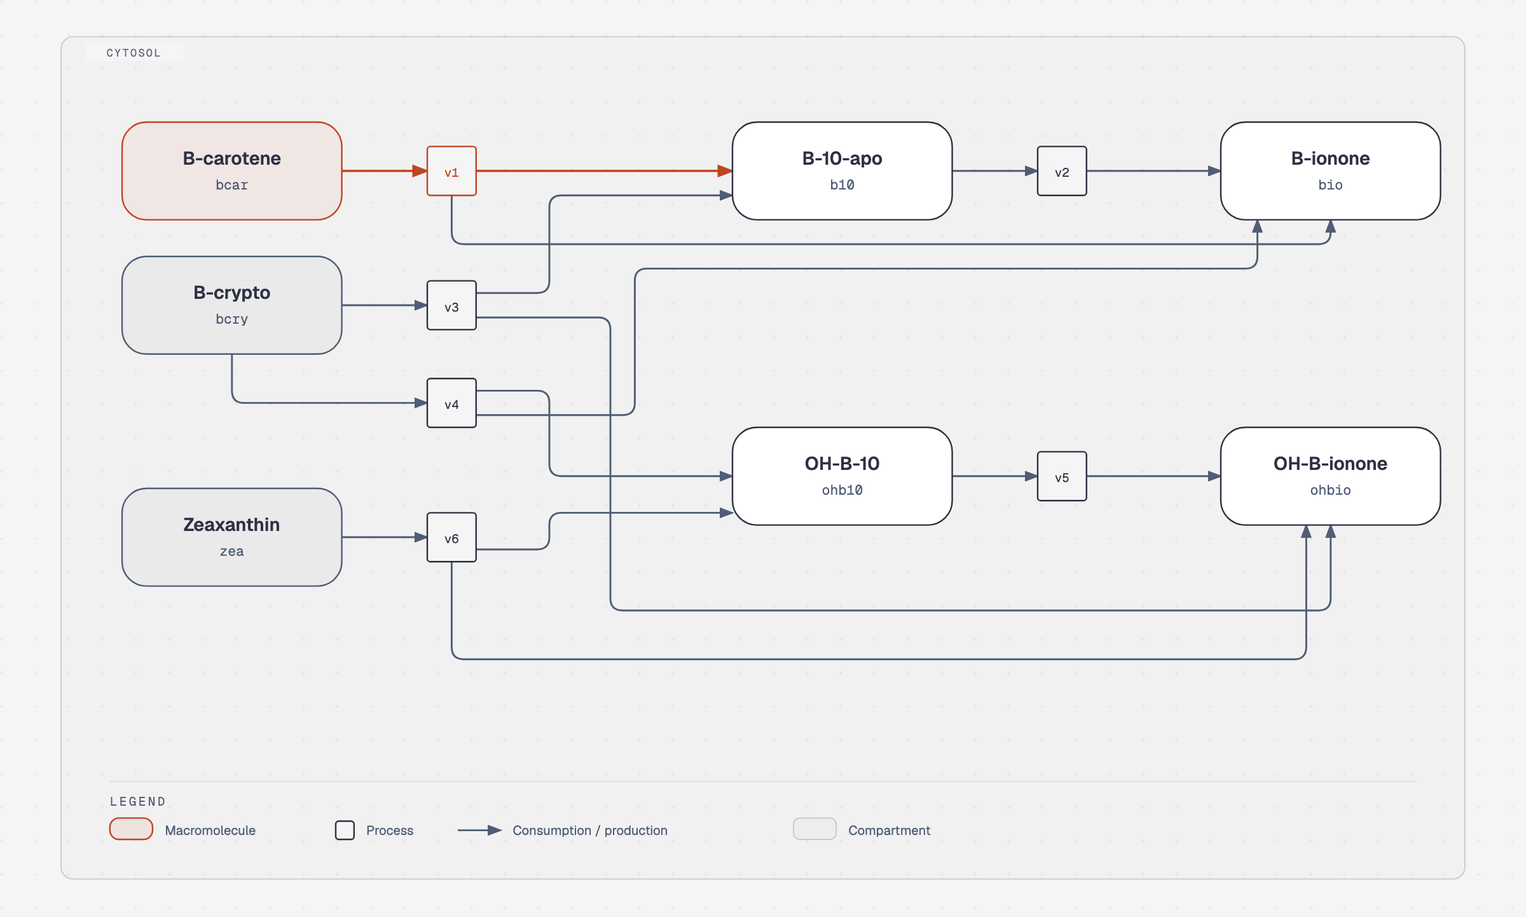
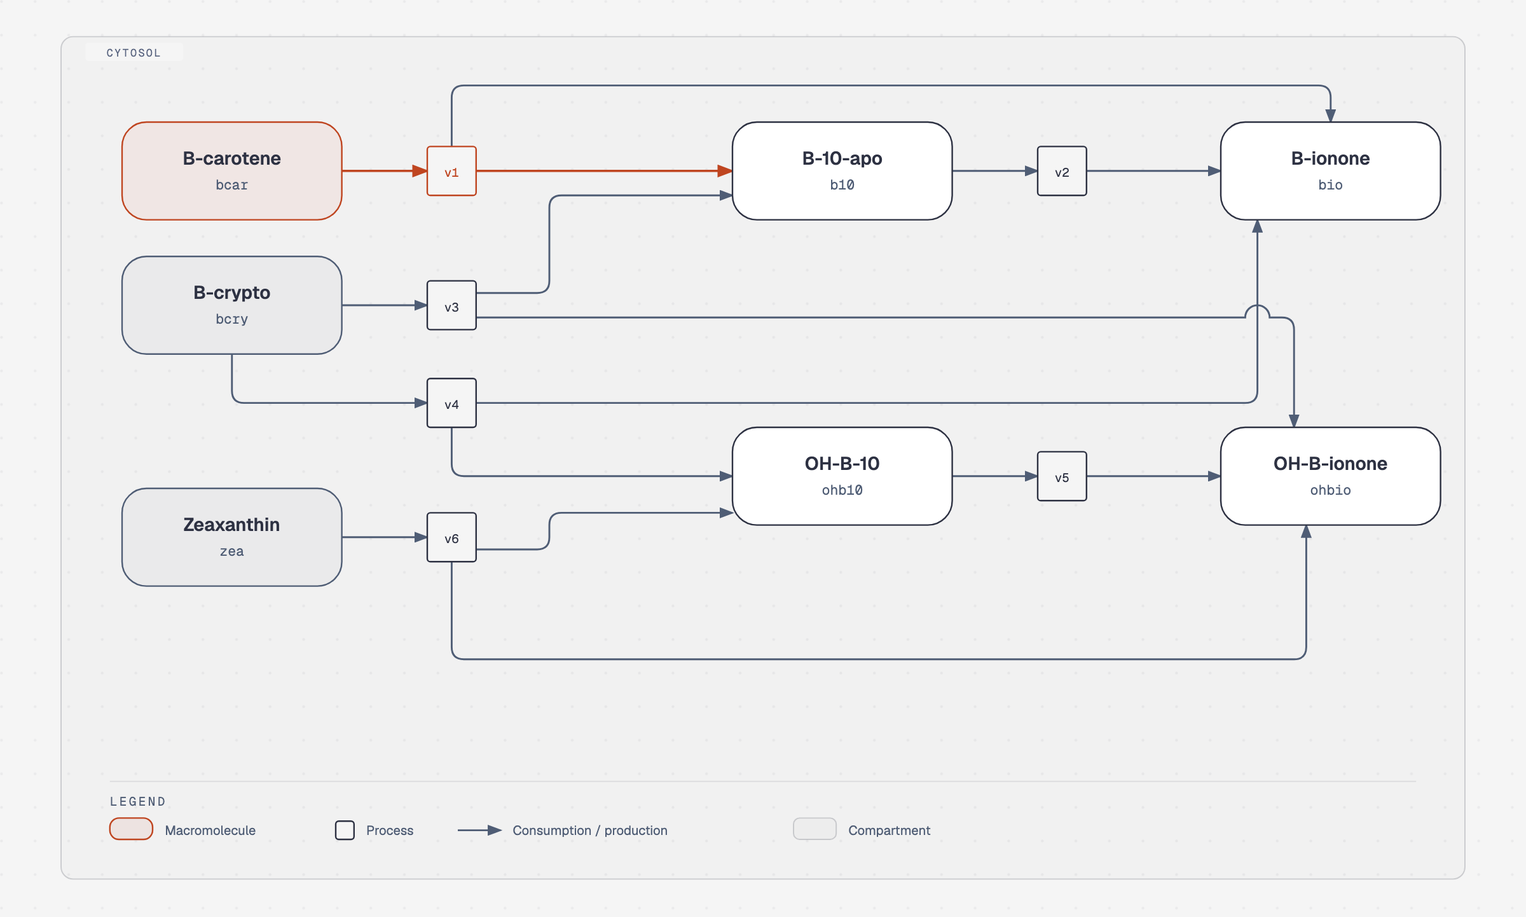
fix(sbgn): reroute crossing arcs and reject unbridged crossings
Seven pairs of same-colour arcs crossed with no gap, so separate
product routes read as junctions, starting with v3 to b10 over v1 to
bio at (360,160). In all three variants:

- v1 to bio runs above the top row and enters B-ionone from the top
- v4 to OH-B-10 leaves v4 from its bottom edge
- v4 to B-ionone runs at y=264 and rises into B-ionone's bottom edge
- v3 to OH-B-ionone runs at y=208 and drops into its top edge

With precursors on the left and products on the right one crossing is
left, v3's route over v4's at (824,208), and it carries the hop from
type-architecture.md.

The checker now fails arcs that cross without a gap, overlap, or end
on another arc; an elliptical arc command leaves the gap. Fixtures cover
a straight and a curved crossing, the bridged form, a T junction, an
overlap and unreadable path data. The canonical screenshot, README
thumb and PR previews are regenerated.

Changed region(s): [[0.3125, 0.4369, 0.4375, 0.4681], [0.8438, 0.2497, 0.875, 0.2809], [0.4062, 0.3433, 0.4375, 0.3745]]

diff --git a/skills/diagram-design/assets/example-sbgn-dark.html b/skills/diagram-design/assets/example-sbgn-dark.html
@@ -89,7 +89,7 @@
         <path data-kind="production" data-from="v1" data-to="b10"
               d="M 312,112 H 480" fill="none" stroke="#f08a59" stroke-width="1.4" marker-end="url(#arrow-accent)"/>
         <path data-kind="production" data-from="v1" data-to="bio"
-              d="M 296,128 V 152 Q 296,160 304,160 H 864 Q 872,160 872,152 V 144"
+              d="M 296,96 V 64 Q 296,56 304,56 H 864 Q 872,56 872,64 V 80"
               fill="none" stroke="#bfc0c0" stroke-width="1.2" marker-end="url(#arrow)"/>
         <path data-kind="consumption" data-from="b10" data-to="v2"
               d="M 624,112 H 680" fill="none" stroke="#bfc0c0" stroke-width="1.2" marker-end="url(#arrow)"/>
@@ -101,16 +101,16 @@
               d="M 312,192 H 352 Q 360,192 360,184 V 136 Q 360,128 368,128 H 480"
               fill="none" stroke="#bfc0c0" stroke-width="1.2" marker-end="url(#arrow)"/>
         <path data-kind="production" data-from="v3" data-to="ohbio"
-              d="M 312,208 H 392 Q 400,208 400,216 V 392 Q 400,400 408,400 H 864 Q 872,400 872,392 V 344"
+              d="M 312,208 H 816 a 8,8 0 0,1 16,0 H 840 Q 848,208 848,216 V 280"
               fill="none" stroke="#bfc0c0" stroke-width="1.2" marker-end="url(#arrow)"/>
         <path data-kind="consumption" data-from="bcry" data-to="v4"
               d="M 152,232 V 256 Q 152,264 160,264 H 280"
               fill="none" stroke="#bfc0c0" stroke-width="1.2" marker-end="url(#arrow)"/>
         <path data-kind="production" data-from="v4" data-to="ohb10"
-              d="M 312,256 H 352 Q 360,256 360,264 V 304 Q 360,312 368,312 H 480"
+              d="M 296,280 V 304 Q 296,312 304,312 H 480"
               fill="none" stroke="#bfc0c0" stroke-width="1.2" marker-end="url(#arrow)"/>
         <path data-kind="production" data-from="v4" data-to="bio"
-              d="M 312,272 H 408 Q 416,272 416,264 V 184 Q 416,176 424,176 H 816 Q 824,176 824,168 V 144"
+              d="M 312,264 H 816 Q 824,264 824,256 V 144"
               fill="none" stroke="#bfc0c0" stroke-width="1.2" marker-end="url(#arrow)"/>
         <path data-kind="consumption" data-from="zea" data-to="v6"
               d="M 224,352 H 280" fill="none" stroke="#bfc0c0" stroke-width="1.2" marker-end="url(#arrow)"/>

diff --git a/skills/diagram-design/assets/example-sbgn.html b/skills/diagram-design/assets/example-sbgn.html
@@ -89,7 +89,7 @@
         <path data-kind="production" data-from="v1" data-to="b10"
               d="M 312,112 H 480" fill="none" stroke="#bf4520" stroke-width="1.4" marker-end="url(#arrow-accent)"/>
         <path data-kind="production" data-from="v1" data-to="bio"
-              d="M 296,128 V 152 Q 296,160 304,160 H 864 Q 872,160 872,152 V 144"
+              d="M 296,96 V 64 Q 296,56 304,56 H 864 Q 872,56 872,64 V 80"
               fill="none" stroke="#4f5d75" stroke-width="1.2" marker-end="url(#arrow)"/>
         <path data-kind="consumption" data-from="b10" data-to="v2"
               d="M 624,112 H 680" fill="none" stroke="#4f5d75" stroke-width="1.2" marker-end="url(#arrow)"/>
@@ -101,16 +101,16 @@
               d="M 312,192 H 352 Q 360,192 360,184 V 136 Q 360,128 368,128 H 480"
               fill="none" stroke="#4f5d75" stroke-width="1.2" marker-end="url(#arrow)"/>
         <path data-kind="production" data-from="v3" data-to="ohbio"
-              d="M 312,208 H 392 Q 400,208 400,216 V 392 Q 400,400 408,400 H 864 Q 872,400 872,392 V 344"
+              d="M 312,208 H 816 a 8,8 0 0,1 16,0 H 840 Q 848,208 848,216 V 280"
               fill="none" stroke="#4f5d75" stroke-width="1.2" marker-end="url(#arrow)"/>
         <path data-kind="consumption" data-from="bcry" data-to="v4"
               d="M 152,232 V 256 Q 152,264 160,264 H 280"
               fill="none" stroke="#4f5d75" stroke-width="1.2" marker-end="url(#arrow)"/>
         <path data-kind="production" data-from="v4" data-to="ohb10"
-              d="M 312,256 H 352 Q 360,256 360,264 V 304 Q 360,312 368,312 H 480"
+              d="M 296,280 V 304 Q 296,312 304,312 H 480"
               fill="none" stroke="#4f5d75" stroke-width="1.2" marker-end="url(#arrow)"/>
         <path data-kind="production" data-from="v4" data-to="bio"
-              d="M 312,272 H 408 Q 416,272 416,264 V 184 Q 416,176 424,176 H 816 Q 824,176 824,168 V 144"
+              d="M 312,264 H 816 Q 824,264 824,256 V 144"
               fill="none" stroke="#4f5d75" stroke-width="1.2" marker-end="url(#arrow)"/>
         <path data-kind="consumption" data-from="zea" data-to="v6"
               d="M 224,352 H 280" fill="none" stroke="#4f5d75" stroke-width="1.2" marker-end="url(#arrow)"/>

diff --git a/skills/diagram-design/assets/example-sbgn-full.html b/skills/diagram-design/assets/example-sbgn-full.html
@@ -83,7 +83,7 @@
         <path data-kind="production" data-from="v1" data-to="b10"
               d="M 312,112 H 480" fill="none" stroke="#bf4520" stroke-width="1.4" marker-end="url(#arrow-accent)"/>
         <path data-kind="production" data-from="v1" data-to="bio"
-              d="M 296,128 V 152 Q 296,160 304,160 H 864 Q 872,160 872,152 V 144"
+              d="M 296,96 V 64 Q 296,56 304,56 H 864 Q 872,56 872,64 V 80"
               fill="none" stroke="#4f5d75" stroke-width="1.2" marker-end="url(#arrow)"/>
         <path data-kind="consumption" data-from="b10" data-to="v2"
               d="M 624,112 H 680" fill="none" stroke="#4f5d75" stroke-width="1.2" marker-end="url(#arrow)"/>
@@ -95,16 +95,16 @@
               d="M 312,192 H 352 Q 360,192 360,184 V 136 Q 360,128 368,128 H 480"
               fill="none" stroke="#4f5d75" stroke-width="1.2" marker-end="url(#arrow)"/>
         <path data-kind="production" data-from="v3" data-to="ohbio"
-              d="M 312,208 H 392 Q 400,208 400,216 V 392 Q 400,400 408,400 H 864 Q 872,400 872,392 V 344"
+              d="M 312,208 H 816 a 8,8 0 0,1 16,0 H 840 Q 848,208 848,216 V 280"
               fill="none" stroke="#4f5d75" stroke-width="1.2" marker-end="url(#arrow)"/>
         <path data-kind="consumption" data-from="bcry" data-to="v4"
               d="M 152,232 V 256 Q 152,264 160,264 H 280"
               fill="none" stroke="#4f5d75" stroke-width="1.2" marker-end="url(#arrow)"/>
         <path data-kind="production" data-from="v4" data-to="ohb10"
-              d="M 312,256 H 352 Q 360,256 360,264 V 304 Q 360,312 368,312 H 480"
+              d="M 296,280 V 304 Q 296,312 304,312 H 480"
               fill="none" stroke="#4f5d75" stroke-width="1.2" marker-end="url(#arrow)"/>
         <path data-kind="production" data-from="v4" data-to="bio"
-              d="M 312,272 H 408 Q 416,272 416,264 V 184 Q 416,176 424,176 H 816 Q 824,176 824,168 V 144"
+              d="M 312,264 H 816 Q 824,264 824,256 V 144"
               fill="none" stroke="#4f5d75" stroke-width="1.2" marker-end="url(#arrow)"/>
         <path data-kind="consumption" data-from="zea" data-to="v6"
               d="M 224,352 H 280" fill="none" stroke="#4f5d75" stroke-width="1.2" marker-end="url(#arrow)"/>

diff --git a/scripts/verify-sbgn.py b/scripts/verify-sbgn.py
@@ -5,7 +5,8 @@ Checks unique IDs, arc kinds, bipartite species/process arcs, compartment
 containment, glyph kinds, and the Bruno ceiling. Containment reads x, y, width
 and height, so a transform or positional CSS on a glyph, its bounds or an
 ancestor group inside the map is a finding. Every connector drawn in the map
-must be a declared arc, except legend samples inside <g data-role="legend">. Files without data-diagram="sbgn" are
+must be a declared arc, except legend samples inside <g data-role="legend">.
+Arcs may not cross without the documented hop, overlap, or end on another arc. Files without data-diagram="sbgn" are
 skipped. This verifies authored declarations, not whether they describe an
 external SBML model.
 
@@ -524,6 +525,141 @@ def overlaps(extent: tuple[float, float, float, float], box: Box) -> bool:
     return x0 <= box.right + EPS and x1 + EPS >= box.x and y0 <= box.bottom + EPS and y1 + EPS >= box.y
 
 
+PATH_TOKEN_RE = re.compile(r"[A-Za-z]|" + NUMBER)
+PATH_ARITY = {"M": 2, "L": 2, "H": 1, "V": 1, "Q": 4, "T": 2, "C": 6, "S": 4, "A": 7, "Z": 0}
+
+Point = tuple[float, float]
+
+
+def arc_polyline(node: Node) -> tuple[list[tuple[Point, Point]], Point, Point]:
+    """Stroked segments of an arc, plus its first and last points.
+
+    Curves are approximated by the polyline through their control points,
+    which is exact at the elbow corners the reference draws. An elliptical
+    arc command (the crossing hop) leaves a gap: nothing is stroked under it
+    at the crossing point.
+    """
+    if node.tag == "line":
+        a = (number(node.attrs.get("x1", "0")), number(node.attrs.get("y1", "0")))
+        b = (number(node.attrs.get("x2", "0")), number(node.attrs.get("y2", "0")))
+        return [(a, b)], a, b
+    if node.tag in {"polyline", "polygon"}:
+        values = [number(raw) for raw in re.split(r"[\s,]+", node.attrs.get("points", "").strip()) if raw]
+        if len(values) < 4 or len(values) % 2:
+            raise ValueError("points must list at least two x,y pairs")
+        points = list(zip(values[::2], values[1::2]))
+        if node.tag == "polygon":
+            points.append(points[0])
+        return list(zip(points, points[1:])), points[0], points[-1]
+    if node.tag != "path":
+        raise ValueError(f"<{node.tag}> cannot carry an arc")
+    tokens = PATH_TOKEN_RE.findall(node.attrs.get("d", ""))
+    if "".join(tokens).replace(" ", "") != re.sub(r"[\s,]+", "", node.attrs.get("d", "")):
+        raise ValueError("unsupported characters")
+    segments: list[tuple[Point, Point]] = []
+    current: Point | None = None
+    start: Point | None = None
+    first: Point | None = None
+    command = ""
+    index = 0
+    while index < len(tokens):
+        if tokens[index].isalpha():
+            command = tokens[index]
+            index += 1
+            if command.upper() not in PATH_ARITY:
+                raise ValueError(f"unsupported command {command}")
+            if command.upper() == "Z":
+                if current is None or start is None:
+                    raise ValueError("Z before M")
+                segments.append((current, start))
+                current = start
+                continue
+        if not command or command.upper() == "Z":
+            raise ValueError("coordinates without a command")
+        arity = PATH_ARITY[command.upper()]
+        args = tokens[index:index + arity]
+        if len(args) != arity or any(token.isalpha() for token in args):
+            raise ValueError(f"command {command} needs {arity} numbers")
+        values = [number(token) for token in args]
+        index += arity
+        relative = command.islower()
+        if current is None and command.upper() != "M":
+            raise ValueError("path must start with M")
+        base = current if (relative and current is not None) else (0.0, 0.0)
+        upper = command.upper()
+        if upper == "H":
+            target = (values[0] + (current[0] if relative else 0.0), current[1])
+            points = [target]
+        elif upper == "V":
+            target = (current[0], values[0] + (current[1] if relative else 0.0))
+            points = [target]
+        elif upper == "A":
+            target = (values[5] + base[0], values[6] + base[1])
+            points = []
+        else:
+            points = [(values[i] + base[0], values[i + 1] + base[1]) for i in range(0, arity, 2)]
+            target = points[-1]
+        if upper == "M":
+            current = start = target
+            if first is None:
+                first = target
+            command = "l" if relative else "L"
+            continue
+        previous = current
+        for point in points:
+            segments.append((previous, point))
+            previous = point
+        current = target
+    if first is None or current is None:
+        raise ValueError("empty path")
+    return segments, first, current
+
+
+def _orientation(a: Point, b: Point, c: Point) -> float:
+    value = (b[0] - a[0]) * (c[1] - a[1]) - (b[1] - a[1]) * (c[0] - a[0])
+    return 0.0 if abs(value) <= EPS else value
+
+
+def _within(a: Point, b: Point, c: Point) -> bool:
+    """c lies on segment ab, collinearity assumed."""
+    return (min(a[0], b[0]) - EPS <= c[0] <= max(a[0], b[0]) + EPS
+            and min(a[1], b[1]) - EPS <= c[1] <= max(a[1], b[1]) + EPS)
+
+
+def _same(a: Point, b: Point) -> bool:
+    return abs(a[0] - b[0]) <= EPS and abs(a[1] - b[1]) <= EPS
+
+
+def crossing_point(s: tuple[Point, Point], t: tuple[Point, Point]) -> Point | None:
+    """Point where two segments properly cross (interiors only), else None."""
+    (a, b), (c, d) = s, t
+    o1, o2 = _orientation(a, b, c), _orientation(a, b, d)
+    o3, o4 = _orientation(c, d, a), _orientation(c, d, b)
+    if o1 * o2 < 0 and o3 * o4 < 0:
+        denominator = (a[0] - b[0]) * (c[1] - d[1]) - (a[1] - b[1]) * (c[0] - d[0])
+        cross_ab = a[0] * b[1] - a[1] * b[0]
+        cross_cd = c[0] * d[1] - c[1] * d[0]
+        return ((cross_ab * (c[0] - d[0]) - (a[0] - b[0]) * cross_cd) / denominator,
+                (cross_ab * (c[1] - d[1]) - (a[1] - b[1]) * cross_cd) / denominator)
+    return None
+
+
+def overlap_length(s: tuple[Point, Point], t: tuple[Point, Point]) -> float:
+    (a, b), (c, d) = s, t
+    if _orientation(a, b, c) or _orientation(a, b, d):
+        return 0.0
+    axis = 0 if abs(b[0] - a[0]) >= abs(b[1] - a[1]) else 1
+    low = max(min(a[axis], b[axis]), min(c[axis], d[axis]))
+    high = min(max(a[axis], b[axis]), max(c[axis], d[axis]))
+    return max(0.0, high - low)
+
+
+def strictly_inside(point: Point, segment: tuple[Point, Point]) -> bool:
+    a, b = segment
+    return (not _orientation(a, b, point) and _within(a, b, point)
+            and not _same(point, a) and not _same(point, b))
+
+
 def looks_like_sbgn(source: str) -> bool:
     scanner = Scanner()
     scanner.finish(source)
@@ -747,6 +883,42 @@ def check_source(path: Path, source: str) -> list[str]:
             pair = {source, target}
             if not (pair & species and pair & process_ids):
                 fail(node, "reversible must join a species and a process")
+
+    # Arcs must not cross, stack, or end on one another: a crossing with no
+    # gap reads as a junction. The hop in type-architecture.md leaves a gap.
+    drawn = []
+    for node in scanner.nodes:
+        if root not in node.ancestors() or node.attrs.get("data-kind") not in ARC_KINDS:
+            continue
+        name = f'{node.attrs.get("data-from", "?")} to {node.attrs.get("data-to", "?")}'
+        try:
+            segments, head, tail = arc_polyline(node)
+        except ValueError as error:
+            fail(node, f"arc {name}: path data could not be read ({error})")
+            continue
+        drawn.append((node, name, segments, (head, tail)))
+    for index, (node, name, segments, ends) in enumerate(drawn):
+        for other, other_name, other_segments, other_ends in drawn[index + 1:]:
+            reported = set()
+            for s in segments:
+                for t in other_segments:
+                    point = crossing_point(s, t)
+                    if point is not None and ("cross", point) not in reported:
+                        reported.add(("cross", point))
+                        fail(other, f"arcs {name} and {other_name} cross at ({point[0]:g}, {point[1]:g}) "
+                                    "without a gap; reroute one or bridge it with the hop from "
+                                    "type-architecture.md")
+                    elif overlap_length(s, t) > EPS and "overlap" not in reported:
+                        reported.add("overlap")
+                        fail(other, f"arcs {name} and {other_name} overlap; offset one by 12px or more")
+            for end in ends:
+                if any(strictly_inside(end, t) for t in other_segments):
+                    fail(node, f"arc {name} ends on arc {other_name} at ({end[0]:g}, {end[1]:g}); "
+                               "it reads as a junction")
+            for end in other_ends:
+                if any(strictly_inside(end, s) for s in segments):
+                    fail(other, f"arc {other_name} ends on arc {name} at ({end[0]:g}, {end[1]:g}); "
+                                "it reads as a junction")
 
     return findings
 

diff --git a/scripts/test-verify-sbgn.py b/scripts/test-verify-sbgn.py
@@ -238,6 +238,34 @@ class ContractTests(unittest.TestCase):
         moved = legend.replace('<g data-role="legend">', '<g data-role="legend" transform="translate(0,-120)">')
         self.rejects(GOOD.replace("</svg>", moved), "transform attribute")
 
+    def test_crossing_arcs_are_rejected(self):
+        # Two same-colour strokes crossing with no gap read as a junction.
+        crossing = ('<path data-kind="modulation" data-from="a" data-to="p" d="M 120,100 H 172"/>'
+                    '<path data-kind="modulation" data-from="b" data-to="p" d="M 140,90 V 112"/></svg>')
+        self.rejects(GOOD.replace("</svg>", crossing), "cross at (140, 100)")
+        curved = crossing.replace('d="M 140,90 V 112"', 'd="M 248,80 H 148 Q 140,80 140,88 V 112"')
+        self.rejects(GOOD.replace("</svg>", curved), "cross at (140, 100)")
+
+    def test_bridged_crossing_is_clean(self):
+        # The hop from type-architecture.md leaves a gap at the crossing.
+        bridged = ('<path data-kind="modulation" data-from="a" data-to="p" '
+                   'd="M 120,100 H 132 a 8,8 0 0,1 16,0 H 172"/>'
+                   '<path data-kind="modulation" data-from="b" data-to="p" d="M 140,90 V 112"/></svg>')
+        self.clean(GOOD.replace("</svg>", bridged))
+
+    def test_arc_ending_on_another_arc_is_rejected(self):
+        touching = ('<path data-kind="modulation" data-from="a" data-to="p" d="M 120,100 H 172"/>'
+                    '<path data-kind="modulation" data-from="b" data-to="p" d="M 140,120 V 100"/></svg>')
+        self.rejects(GOOD.replace("</svg>", touching), "ends on arc")
+
+    def test_overlapping_arcs_are_rejected(self):
+        stacked = ('<path data-kind="modulation" data-from="a" data-to="p" d="M 120,100 H 172"/>'
+                   '<path data-kind="modulation" data-from="b" data-to="p" d="M 150,100 H 190"/></svg>')
+        self.rejects(GOOD.replace("</svg>", stacked), "overlap")
+
+    def test_unreadable_arc_path_is_rejected(self):
+        self.rejects(GOOD.replace('d="M 112,60 H 160"', 'd="M 112,60 X 160"', 1), "path data")
+
     def test_source_sink_is_species(self):
         source = GOOD.replace(
             "</svg>",

diff --git a/CONTRIBUTING.md b/CONTRIBUTING.md
@@ -229,7 +229,7 @@ python3 scripts/test-plugin-package.py \
 - **`verify-architecture-delta.py`:** a stable ID, snapshot membership, status, signature, position, endpoint, or ledger target disagrees with the declared migration. Follow `type-architecture-delta.md`: record every changed object in the center ledger, retain unchanged positions on matching grids, and distinguish CHANGED, MOVED, and REWIRED by what actually differs. Fix the diagram and metadata together; never suppress the ledger entry to hide an unaccounted change.
 - **`verify-exploded.py`:** a part's silhouette is off the projection of the box it declares, a level sits at two heights, the gaps differ or fall under max(0.5 x top-face height, 3 x part thickness), a leader bends, starts off its part, or crosses another part, labels crowd or leave the column, or an animated lift disagrees with the geometry. Change the model in `scripts/build-exploded-examples.py` and rebuild; never nudge a drawn coordinate, and never shrink a gap to fit the canvas.
 - **`verify-axonometric-plan.py`:** a box's silhouette is off the projection of its declared footprint, a box stands outside the plate, floats above it, or shares floor with another, a box is painted after one in front of it, or a tag is off its plan point, stands on a room or roof it does not name, overlaps another tag, runs past two words, or is missing or doubled for a room or building. Change the plan in `scripts/build-axonometric-plan-examples.py` and rebuild; move a tag to open floor rather than shrinking it.
-- **`verify-sbgn.py`:** a species-to-species or process-to-process arc, an arc with a missing or unknown `data-kind`, a drawn connector with no arc declaration outside the `data-role="legend"` group, a glyph moved by a `transform` attribute, positional inline style, or a stylesheet rule that can reach it, a missing compartment, an unresolved endpoint, a glyph off the 4px grid, or a map over the Bruno ceiling (7 macromolecules, 6 processes, 1 compartment, 2 source/sink, 16 arcs). Follow `type-sbgn.md`: keep the bipartite species/process grammar, draw the compartment as a glyph, and split a larger map. Fix the diagram and metadata together; never drop a process node to hide a species–species shortcut.
+- **`verify-sbgn.py`:** a species-to-species or process-to-process arc, an arc with a missing or unknown `data-kind`, a drawn connector with no arc declaration outside the `data-role="legend"` group, two arcs that cross without a hop, overlap, or meet mid-stroke, a glyph moved by a `transform` attribute, positional inline style, or a stylesheet rule that can reach it, a missing compartment, an unresolved endpoint, a glyph off the 4px grid, or a map over the Bruno ceiling (7 macromolecules, 6 processes, 1 compartment, 2 source/sink, 16 arcs). Follow `type-sbgn.md`: keep the bipartite species/process grammar, draw the compartment as a glyph, and split a larger map. Fix the diagram and metadata together; never drop a process node to hide a species–species shortcut.
 - **`verify-block-registry.py`:** a Traceable block decomposition diagram (`semantic-patterns.md` § 8) has a duplicate `data-block-id`, a `data-block-parent` that doesn't resolve to another block's id in the same file, a blank `data-block-id`, a missing or blank `data-block-name`, or a cycle in the parent chain. Fix the diagram's attributes — the checker mirrors the source rather than validating semantics, so a passing file is only as correct as the IDs and parents actually authored on it.
 - **Icon assets:** you changed `scripts/vendor/icons/` or `scripts/build-icons.py` and the generated files went stale. Rerun `python3 scripts/build-icons.py` and commit the regenerated files.
 

diff --git a/skills/diagram-design/references/type-sbgn.md b/skills/diagram-design/references/type-sbgn.md
@@ -59,7 +59,7 @@ Authoring-only: the model arrives as text in the prompt. This type does not impo
 
 The file has exactly one `<svg data-diagram="sbgn">`. Process squares are 32×32 so they stay below the geometry-checker's 60×40 node floor; macromolecules are the nodes the connector rules attach to. Source/sink circles are decoration-sized and also below that floor.
 
-**Machine-readable contract.** Species, processes, and the compartment carry stable IDs. Every arc declares `data-kind`, `data-from`, and `data-to`. `scripts/verify-sbgn.py` fails duplicate IDs, unresolved endpoints, an arc whose `data-kind` is missing or unknown, an arc that skips the bipartite rule, a macromolecule drawn outside its compartment, a glyph moved by a `transform` or positional CSS, and a figure over the Bruno ceiling. Place glyphs with `x`, `y`, `width`, and `height` only. Every other `<path>`, `<line>`, `<polyline>`, `<polygon>`, or `<use>` in the map must be a declared arc; legend samples go inside `<g data-role="legend">`, use only `<line>`, `<rect>`, `<circle>`, and `<text>`, and stay clear of every glyph.
+**Machine-readable contract.** Species, processes, and the compartment carry stable IDs. Every arc declares `data-kind`, `data-from`, and `data-to`. `scripts/verify-sbgn.py` fails duplicate IDs, unresolved endpoints, an arc whose `data-kind` is missing or unknown, an arc that skips the bipartite rule, a macromolecule drawn outside its compartment, a glyph moved by a `transform` or positional CSS, and a figure over the Bruno ceiling. Place glyphs with `x`, `y`, `width`, and `height` only. Every other `<path>`, `<line>`, `<polyline>`, `<polygon>`, or `<use>` in the map must be a declared arc; legend samples go inside `<g data-role="legend">`, use only `<line>`, `<rect>`, `<circle>`, and `<text>`, and stay clear of every glyph. Arcs never cross, stack, or end on one another: route around first, and where the layout forces a single crossing, bridge it with the hop from [type-architecture.md](type-architecture.md#crossing-arrows--bridge--hop). The shipped map has one, where v3's product route hops v4's.
 
 ## Budget
 
